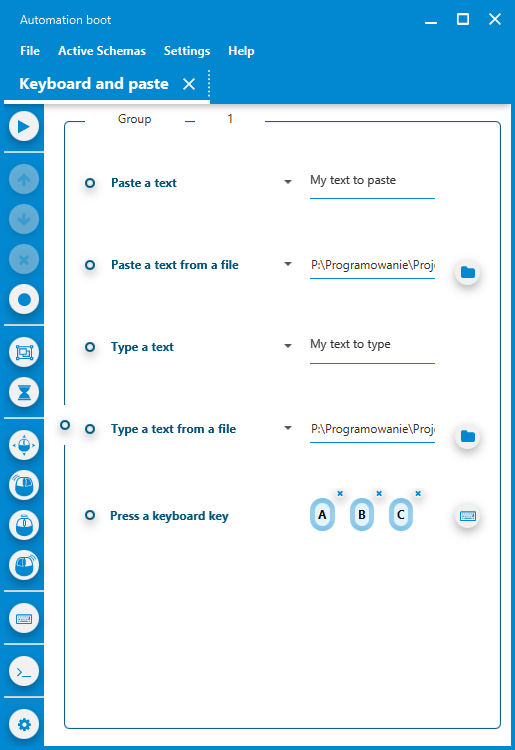
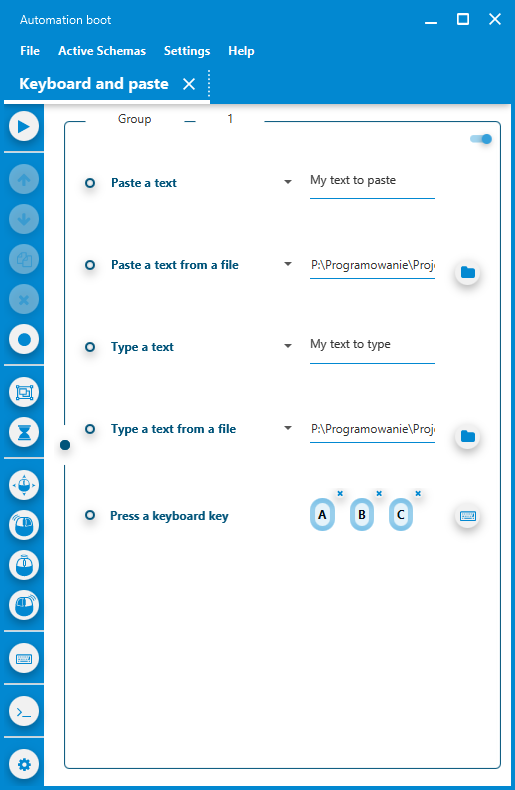
Update to 1.1.0

diff --git a/README.md b/README.md
@@ -3,9 +3,9 @@ Application for process automation. Controls mouse and keyboard, records actions
 
 ![](https://github.com/Patresss/AutomationBoot/blob/master/Examples/My%20work.png)
  
-## Download - 1.0.1 version 
-* Installer exe (windows) - [download exe](https://github.com/Patresss/AutomationBoot/releases/download/1.0.1/Automation.Boot-1.0.1.exe)
-* Executable jar (bin/Automation Boot) - [download zip](https://github.com/Patresss/AutomationBoot/releases/download/1.0.1/Automation.Boot-1.0.1.zip)
+## Download - 1.1.0 version 
+* Installer exe (windows) - [download exe](https://github.com/Patresss/AutomationBoot/releases/download/1.1.0/Automation.Boot-1.1.0.exe)
+* Executable jar (bin/Automation Boot) - [download zip](https://github.com/Patresss/AutomationBoot/releases/download/1.1.0/Automation.Boot-1.1.0.zip)
 
 *If the program does not respond, please run it as administrator*
 ## Capabilities
@@ -48,7 +48,9 @@ Application for process automation. Controls mouse and keyboard, records actions
         * Possibility of changing port
 * Supported languages: English, Polish
 * Delay control between actions
-
+* Duplicate action
+* Parameters (to send <path>?parameter1=value1&parameter2=value2, to receive: {{parameter1}})
+* Turn off group
 
 
 ## Examples
@@ -61,6 +63,11 @@ Application for process automation. Controls mouse and keyboard, records actions
 | Scripts [abJson](https://github.com/Patresss/AutomationBoot/blob/master/Examples/Scripts.ab) | Shut down computer [abJson](https://github.com/Patresss/AutomationBoot/blob/master/Examples/Shut%20down%20computer.ab) |
 :-------------------------:|:-------------------------:
 ![](https://github.com/Patresss/AutomationBoot/blob/master/Examples/Scripts.png) | ![](https://github.com/Patresss/AutomationBoot/blob/master/Examples/Shut%20down%20computer.png)
+
+| Parameters - send [abJson](https://github.com/Patresss/AutomationBoot/blob/master/Examples/Click%20and%20wait%20more%20points.ab) | Parameters - receive [abJson](https://github.com/Patresss/AutomationBoot/blob/master/Examples/Click%20and%20wait.ab) |
+:-------------------------:|:-------------------------:
+![](https://github.com/Patresss/AutomationBoot/blob/master/Examples/Click%20and%20wait%20more%20points.png) | ![](https://github.com/Patresss/AutomationBoot/blob/master/Examples/Click%20and%20wait.png)
+
 
 * Settings
 
